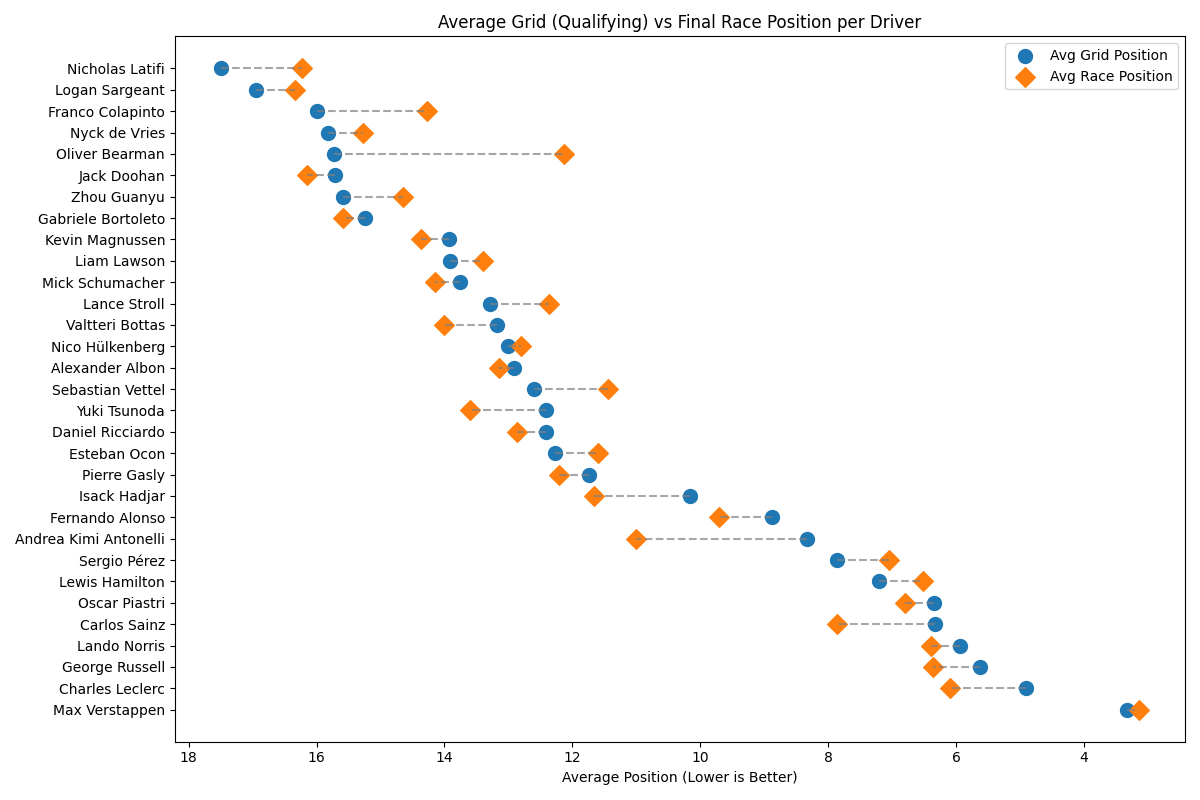
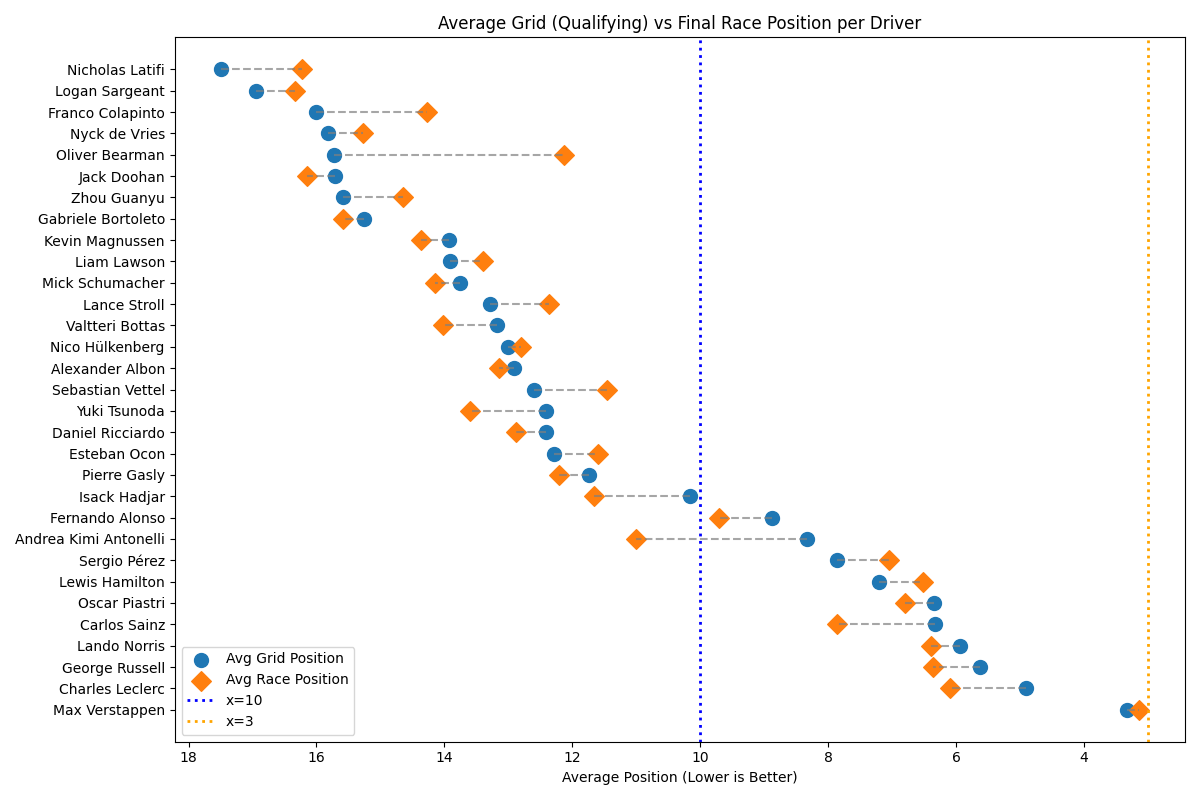
enhance analytics

diff --git a/31_general_analytics.py b/31_general_analytics.py
@@ -9,13 +9,12 @@ from sklearn.preprocessing import MinMaxScaler
 import colorsys  # For HSL color manipulation
 from matplotlib.colors import to_rgb  # To convert matplotlib colors to RGB tuple
 
-##################################################################################################################
-# DRIVER POINTS OVER TIME
-##################################################################################################################
-
-
 # Load the data
 df = pd.read_csv("PROCESSED_DATA/final_full_data.csv")
+
+##################################################################################################################
+# DRIVER POINTS OVER TIME - CUMULATIVE
+##################################################################################################################
 
 # Filter necessary columns
 df_points = df[["RACEYEAR", "RACENUMBER", "DriverNameMapped", "Points"]].copy()
@@ -57,6 +56,7 @@ for i, (driver, data) in enumerate(pivot.items()):
         marker="o",
         label=driver,
         color=colors[i % len(colors)],
+        markersize=3,
     )
 
 # Set x-tick labels to show (Year, RaceNumber)
@@ -73,7 +73,112 @@ plt.show()
 
 
 ##################################################################################################################
-# TEAM POINTS OVER TIME
+# DRIVER POINTS OVER TIME - BROKEN BY YEAR
+##################################################################################################################
+
+
+# --- DRIVER COLORS ---
+drivers = sorted(df["DriverNameMapped"].dropna().unique())
+driver_color_map = {driver: plt.cm.tab20(i % 20) for i, driver in enumerate(drivers)}
+
+years = sorted(df["RACEYEAR"].unique())
+
+# --- DRIVER POINTS ---
+df_points = df[["RACEYEAR", "RACENUMBER", "DriverNameMapped", "Points"]].copy()
+df_points = df_points.sort_values(["DriverNameMapped", "RACEYEAR", "RACENUMBER"])
+df_points["CumulativePoints"] = df_points.groupby(["DriverNameMapped", "RACEYEAR"])[
+    "Points"
+].cumsum()
+
+# --- Build shared x-axis: one entry per race, with year and race number ---
+race_tuples = sorted(df[["RACEYEAR", "RACENUMBER"]].drop_duplicates().values.tolist())
+race_labels = [f"{year}-{race}" for year, race in race_tuples]
+race_index_map = {(year, race): idx for idx, (year, race) in enumerate(race_tuples)}
+
+# --- Find year boundaries for vertical lines ---
+year_boundaries = []
+prev_year = race_tuples[0][0]
+for idx, (year, race) in enumerate(race_tuples):
+    if year != prev_year:
+        year_boundaries.append(idx)
+        prev_year = year
+
+fig, ax_driver = plt.subplots(1, 1, figsize=(18, 8), sharex=True)
+
+# --- Plotting Driver Lines, Avoiding Duplicate Labels ---
+plotted_drivers = set()
+
+for driver in drivers:
+    x_points = []
+    y_points = []
+    for year, race in race_tuples:
+        sub = df_points[
+            (df_points["DriverNameMapped"] == driver)
+            & (df_points["RACEYEAR"] == year)
+            & (df_points["RACENUMBER"] == race)
+        ]
+        if not sub.empty:
+            x_points.append(race_index_map[(year, race)])
+            y_points.append(sub.iloc[0]["CumulativePoints"])
+    # Split by year boundaries
+    boundaries = [0] + year_boundaries + [len(race_tuples)]
+    for i in range(len(boundaries) - 1):
+        start, end = boundaries[i], boundaries[i + 1]
+        indices = [j for j, x in enumerate(x_points) if start <= x < end]
+        if indices:
+            seg_x = [x_points[j] for j in indices]
+            seg_y = [y_points[j] for j in indices]
+            ax_driver.plot(
+                seg_x,
+                seg_y,
+                marker="o",
+                label=driver if driver not in plotted_drivers else None,
+                color=driver_color_map[driver],
+                linewidth=2,
+                markersize=4,
+            )
+    plotted_drivers.add(driver)
+
+# --- Axis & Title ---
+ax_driver.set_ylabel("Cumulative Points (Driver)")
+ax_driver.set_title("Driver Points Over Time (Points Reset Each Year)")
+ax_driver.set_xticks(range(len(race_labels)))
+ax_driver.set_xticklabels(race_labels, rotation=90)
+
+# --- Draw vertical lines for year boundaries ---
+for boundary in year_boundaries:
+    ax_driver.axvline(
+        boundary - 0.5, color="black", linestyle="--", linewidth=1.5, alpha=0.7
+    )
+    ax_driver.text(
+        boundary,
+        ax_driver.get_ylim()[1],
+        f"{race_tuples[boundary][0]}",
+        color="black",
+        fontsize=12,
+        ha="center",
+        va="bottom",
+    )
+
+# --- Clean legend (unique and sorted alphabetically) ---
+handles, labels = ax_driver.get_legend_handles_labels()
+by_label = dict(sorted(zip(labels, handles), key=lambda x: (x[0] is None, x[0])))
+ax_driver.legend(
+    by_label.values(),
+    by_label.keys(),
+    title="Driver",
+    bbox_to_anchor=(1.01, 1),
+    loc="upper left",
+    fontsize=8,
+)
+
+plt.xlabel("Race (Year-Number)")
+plt.tight_layout()
+plt.savefig("ANALYTICS/DRIVER_POINTS_OVER_TIME_BY_YEAR.png")
+plt.show()
+
+##################################################################################################################
+# TEAM POINTS OVER TIME - CUMULATIVE
 ##################################################################################################################
 
 # Filter necessary columns for team points
@@ -116,6 +221,7 @@ for i, (team, data) in enumerate(pivot_team.items()):
         marker="o",
         label=team,
         color=colors[i % len(colors)],
+        markersize=3,
     )
 
 # Set x-tick labels to show (Year, RaceNumber)
@@ -132,11 +238,120 @@ plt.show()
 
 
 ##################################################################################################################
+# TEAM POINTS OVER TIME - BROKEN BY YEAR
+##################################################################################################################
+
+# --- TEAM COLORS ---
+teams = sorted(df["TeamNameMapped"].dropna().unique())
+team_color_map = {team: plt.cm.tab20(i % 20) for i, team in enumerate(teams)}
+
+years = sorted(df["RACEYEAR"].unique())
+
+# --- TEAM POINTS ---
+df_team_points = df[["RACEYEAR", "RACENUMBER", "TeamNameMapped", "Points"]].copy()
+df_team_points = (
+    df_team_points.groupby(["RACEYEAR", "RACENUMBER", "TeamNameMapped"])
+    .sum()
+    .reset_index()
+)
+df_team_points = df_team_points.sort_values(
+    ["TeamNameMapped", "RACEYEAR", "RACENUMBER"]
+)
+df_team_points["CumulativePoints"] = df_team_points.groupby(
+    ["TeamNameMapped", "RACEYEAR"]
+)["Points"].cumsum()
+
+# --- Build shared x-axis: one entry per race, with year and race number ---
+race_tuples = sorted(df[["RACEYEAR", "RACENUMBER"]].drop_duplicates().values.tolist())
+race_labels = [f"{year}-{race}" for year, race in race_tuples]
+race_index_map = {(year, race): idx for idx, (year, race) in enumerate(race_tuples)}
+
+# --- Find year boundaries for vertical lines ---
+year_boundaries = []
+prev_year = race_tuples[0][0]
+for idx, (year, race) in enumerate(race_tuples):
+    if year != prev_year:
+        year_boundaries.append(idx)
+        prev_year = year
+
+fig, ax_team = plt.subplots(1, 1, figsize=(18, 8), sharex=True)
+
+# --- Plotting Team Lines, Avoiding Duplicate Labels ---
+plotted_teams = set()
+
+for team in teams:
+    x_points = []
+    y_points = []
+    for year, race in race_tuples:
+        sub = df_team_points[
+            (df_team_points["TeamNameMapped"] == team)
+            & (df_team_points["RACEYEAR"] == year)
+            & (df_team_points["RACENUMBER"] == race)
+        ]
+        if not sub.empty:
+            x_points.append(race_index_map[(year, race)])
+            y_points.append(sub.iloc[0]["CumulativePoints"])
+    # Split by year boundaries
+    boundaries = [0] + year_boundaries + [len(race_tuples)]
+    for i in range(len(boundaries) - 1):
+        start, end = boundaries[i], boundaries[i + 1]
+        indices = [j for j, x in enumerate(x_points) if start <= x < end]
+        if indices:
+            seg_x = [x_points[j] for j in indices]
+            seg_y = [y_points[j] for j in indices]
+            ax_team.plot(
+                seg_x,
+                seg_y,
+                marker="o",
+                label=team if team not in plotted_teams else None,
+                color=team_color_map[team],
+                linewidth=2,
+                markersize=4,
+            )
+    plotted_teams.add(team)
+
+# --- Axis & Title ---
+ax_team.set_ylabel("Cumulative Points (Team)")
+ax_team.set_title("Team Points Over Time (Points Reset Each Year)")
+ax_team.set_xticks(range(len(race_labels)))
+ax_team.set_xticklabels(race_labels, rotation=90)
+
+# --- Draw vertical lines for year boundaries ---
+for boundary in year_boundaries:
+    ax_team.axvline(
+        boundary - 0.5, color="black", linestyle="--", linewidth=1.5, alpha=0.7
+    )
+    ax_team.text(
+        boundary,
+        ax_team.get_ylim()[1],
+        f"{race_tuples[boundary][0]}",
+        color="black",
+        fontsize=12,
+        ha="center",
+        va="bottom",
+    )
+
+# --- Clean legend (unique and sorted alphabetically) ---
+handles, labels = ax_team.get_legend_handles_labels()
+by_label = dict(sorted(zip(labels, handles), key=lambda x: (x[0] is None, x[0])))
+ax_team.legend(
+    by_label.values(),
+    by_label.keys(),
+    title="Team",
+    bbox_to_anchor=(1.01, 1),
+    loc="upper left",
+    fontsize=8,
+)
+
+plt.xlabel("Race (Year-Number)")
+plt.tight_layout()
+plt.savefig("ANALYTICS/TEAM_POINTS_OVER_TIME_BY_YEAR.png")
+plt.show()
+
+##################################################################################################################
 # DRIVER: AVERAGE GRID POSITION VS FINAL POSITION
 ##################################################################################################################
 
-
-# (Assume 'Grid Position' is qualifying, 'Position' is race result)
 df_avg = df[["DriverNameMapped", "GridPosition", "Position"]].copy()
 
 # Remove rows with missing positions
@@ -183,6 +398,10 @@ for i, row in enumerate(avg_positions.itertuples()):
         alpha=0.7,
     )
 
+# Add vertical lines at x=10 and x=3
+ax.axvline(x=10, color="blue", linestyle=":", linewidth=2, label="x=10")
+ax.axvline(x=3, color="orange", linestyle=":", linewidth=2, label="x=3")
+
 ax.set_yticks(y)
 ax.set_yticklabels(avg_positions["DriverNameMapped"])
 ax.set_xlabel("Average Position (Lower is Better)")
@@ -192,7 +411,6 @@ ax.invert_xaxis()  # Lower (better) positions to the right
 plt.tight_layout()
 plt.savefig("ANALYTICS/DRIVER_AVG_GRID_VS_FINAL_POSITION_DOTPLOT.png")
 plt.show()
-
 
 ##################################################################################################################
 # Average top speed on tyre compounds per race
@@ -750,7 +968,67 @@ plt.legend(
 # --- Save and show ---
 plt.tight_layout()
 plt.savefig("ANALYTICS/AVG_PITSTOP_DURATION_BY_TEAM_AND_DRIVER_DOT_PLOT.png")
+plt.show()
 
+##################################################################################################################
+# WEATHER, HYMIDITY AND TYRE TEMPERATURE
+##################################################################################################################
+
+# Group by Location and calculate mean for each feature
+weather_means = (
+    df.groupby("Location")[
+        ["RACE_AirTemp_mean", "RACE_Humidity_mean", "RACE_TrackTemp_mean"]
+    ]
+    .mean()
+    .reset_index()
+)
+weather_means["total"] = (
+    weather_means["RACE_AirTemp_mean"]
+    + weather_means["RACE_Humidity_mean"]
+    + weather_means["RACE_TrackTemp_mean"]
+)
+
+
+# Sort tracks by air temp for better visualization (optional)
+weather_means = weather_means.sort_values("total", ascending=False)
+
+fig, ax = plt.subplots(figsize=(16, 10))
+
+bar_width = 0.6
+x = np.arange(len(weather_means))
+
+# Plot stacked bars
+ax.bar(
+    x,
+    weather_means["RACE_AirTemp_mean"],
+    width=bar_width,
+    label="Avg. Air Temp (°C)",
+    color="tab:blue",
+)
+ax.bar(
+    x,
+    weather_means["RACE_Humidity_mean"],
+    width=bar_width,
+    bottom=weather_means["RACE_AirTemp_mean"],
+    label="Avg. Humidity (%)",
+    color="tab:orange",
+)
+ax.bar(
+    x,
+    weather_means["RACE_TrackTemp_mean"],
+    width=bar_width,
+    bottom=weather_means["RACE_AirTemp_mean"] + weather_means["RACE_Humidity_mean"],
+    label="Avg. Track Temp (°C)",
+    color="tab:green",
+)
+
+ax.set_xticks(x)
+ax.set_xticklabels(weather_means["Location"], rotation=45, ha="right")
+ax.set_ylabel("Mean Value")
+ax.set_title("Mean Air Temp, Humidity, and Track Temp per Track (Stacked Bar)")
+ax.legend(title="Feature")
+plt.tight_layout()
+plt.savefig("ANALYTICS/AVG_WEATHER_TRACK_TEMP_HUMIDITY.png")
 plt.show()
 
 ##################################################################################################################
